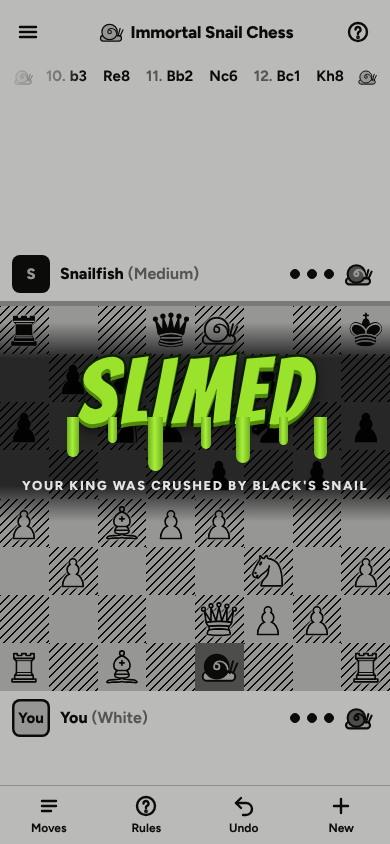
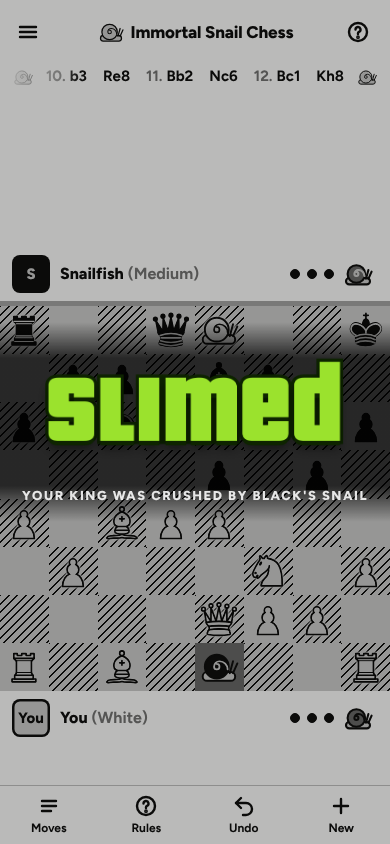
SLIMED: GTA's Pricedown lettering as a pre-rendered image, no drips
- Removed the slime drips from the SLIMED finale (app and mockup).
- The SLIMED wordmark is now public/slimed.png, rendered in Pricedown with
  scripts/render-slimed.ts. Pricedown's Typodermic Desktop License allows
  static images made with the font but not embedding or sharing the font,
  so only the PNG is committed; *.otf and fonts-local/ are gitignored.
- The overlay falls back to the Bangers lettering if the image is missing.

Claude-Session: https://claude.ai/code/session_01U8MHDgNDQCdr5CLUso6Wo8

Changed region(s): [[0.0615, 0.4005, 0.9538, 0.6161]]

diff --git a/design/mockups/round-05/end-slimed.html b/design/mockups/round-05/end-slimed.html
@@ -90,10 +90,9 @@ button{font:inherit;color:inherit;border:0;background:none}
 .slimed-world{filter:grayscale(1) contrast(1.1) brightness(.8)}
 .slimed{position:fixed;inset:0;z-index:30;display:grid;place-items:center;background:rgba(28,25,23,.3)}
 .slimed .band{position:absolute;left:0;right:0;top:50%;height:200px;transform:translateY(-50%);background:linear-gradient(180deg,transparent,rgba(0,0,0,.74) 18%,rgba(0,0,0,.74) 82%,transparent)}
-.slimed .word{position:relative;font:400 92px/.9 Bangers,Impact,sans-serif;letter-spacing:.04em;color:#9be22d;-webkit-text-stroke:5px #0e2400;paint-order:stroke fill;text-shadow:0 4px 0 #4f8a0b,0 8px 12px rgba(0,0,0,.6);text-align:center}
-.slimed .drips{position:absolute;left:8%;right:8%;top:80%;height:0}
-.slimed .drip{position:absolute;top:0;border-radius:0 0 999px 999px;background:linear-gradient(90deg,#6fb31c,#a8ee3a 45%,#6fb31c)}
-.slimed .cap{position:relative;margin-top:44px;font:800 13px Figtree;letter-spacing:.12em;text-transform:uppercase;color:rgba(255,255,255,.88);text-align:center}
+.slimed .word{position:relative;text-transform:uppercase;font:400 92px/.9 Bangers,Impact,sans-serif;letter-spacing:.04em;color:#9be22d;-webkit-text-stroke:5px #0e2400;paint-order:stroke fill;text-shadow:0 4px 0 #4f8a0b,0 8px 12px rgba(0,0,0,.6);text-align:center}
+.slimed .word-img{position:relative;display:block;width:min(330px,86vw);height:auto;margin:0 auto}
+.slimed .cap{position:relative;margin-top:22px;font:800 13px Figtree;letter-spacing:.12em;text-transform:uppercase;color:rgba(255,255,255,.88);text-align:center}
 
 .toolbar{display:grid;grid-template-columns:repeat(4,1fr);border-top:1px solid var(--line)}
 .toolbar button{height:58px;display:grid;justify-items:center;align-content:center;gap:2px;font-weight:700;font-size:12px}
@@ -408,5 +407,5 @@ button{font:inherit;color:inherit;border:0;background:none}
     <button><svg viewBox="0 0 24 24" fill="none" stroke="currentColor" stroke-width="2.4" stroke-linecap="round"><path d="M5 7h14M5 12h14M5 17h9"/></svg>Moves</button><button><svg viewBox="0 0 24 24" fill="none" stroke="currentColor" stroke-width="2.4" stroke-linecap="round" stroke-linejoin="round"><circle cx="12" cy="12" r="9"/><path d="M9.5 9.5a2.5 2.5 0 1 1 3.5 2.3c-.6.3-1 .8-1 1.5V14"/><circle cx="12" cy="17.2" r=".7" fill="currentColor"/></svg>Rules</button><button><svg viewBox="0 0 24 24" fill="none" stroke="currentColor" stroke-width="2.4" stroke-linecap="round" stroke-linejoin="round"><path d="M9 14 4 9l5-5"/><path d="M4 9h10a6 6 0 0 1 0 12h-3"/></svg>Undo</button><button><svg viewBox="0 0 24 24" fill="none" stroke="currentColor" stroke-width="2.4" stroke-linecap="round"><path d="M12 5v14M5 12h14"/></svg>New</button>
   </nav>
 </main><div class="slimed" role="alert"><div class="band"></div><div>
-  <div class="word">SLIMED<span class="drips"><span class="drip" style="left:6%;width:12px;height:40px"></span><span class="drip" style="left:20%;width:9px;height:26px"></span><span class="drip" style="left:34%;width:15px;height:54px"></span><span class="drip" style="left:52%;width:10px;height:32px"></span><span class="drip" style="left:64%;width:14px;height:46px"></span><span class="drip" style="left:79%;width:9px;height:28px"></span><span class="drip" style="left:91%;width:13px;height:42px"></span></span></div>
+  <img class="word-img" src="slimed.png" alt="Slimed">
   <div class="cap">Your king was crushed by Black's snail</div></div></div></body></html>

diff --git a/src/ui/SlimedOverlay.tsx b/src/ui/SlimedOverlay.tsx
@@ -1,28 +1,22 @@
 import '@fontsource/bangers/400.css';
-import { useEffect } from 'react';
+import { useEffect, useState } from 'react';
 import { createPortal } from 'react-dom';
 import type { Color } from '../engine/types';
 
 const NAME: Record<Color, string> = { w: 'White', b: 'Black' };
 
-/** Slime drips hanging off the lettering: [left %, width px, length px, delay ms]. */
-const DRIPS: [number, number, number, number][] = [
-  [9, 14, 50, 900],
-  [21, 10, 32, 1150],
-  [34, 18, 66, 1000],
-  [52, 12, 40, 1300],
-  [63, 16, 58, 1050],
-  [78, 11, 36, 1250],
-  [90, 15, 52, 1100],
-];
-
 /**
  * GTA-style "WASTED" finale, slime edition: the whole app drains to grey (`slimed-world` on
  * #root) while this layer, portalled to <body> so the filter doesn't touch it, adds the dark
- * band, the lettering and the drips. Click anywhere (or press Space) to skip.
+ * band and the lettering. Click anywhere (or press Space) to skip.
+ *
+ * The lettering is public/slimed.png, pre-rendered in Pricedown (GTA's font) by
+ * scripts/render-slimed.ts. Pricedown's free licence doesn't allow embedding the font in an app,
+ * only static images. Until that image exists, a Bangers fallback is shown.
  */
 export function SlimedOverlay({ victim, by, you, onSkip }: { victim: Color; by: Color; you: Color | null; onSkip: () => void }) {
   const whose = you === victim ? 'Your' : `${NAME[victim]}'s`;
+  const [imageMissing, setImageMissing] = useState(false);
   useEffect(() => {
     const root = document.getElementById('root');
     root?.classList.add('slimed-world');
@@ -32,18 +26,19 @@ export function SlimedOverlay({ victim, by, you, onSkip }: { victim: Color; by: 
     <div className="slimed-overlay" role="alert" onClick={onSkip}>
       <div className="slimed-band" />
       <div className="slimed-stack">
-        <div className="slimed-word" data-testid="slimed">
-          slimed
-          <span className="slimed-drips" aria-hidden>
-            {DRIPS.map(([left, w, h, delay]) => (
-              <span
-                key={left}
-                className="slimed-drip"
-                style={{ left: `${left}%`, width: w, height: h, animationDelay: `${delay}ms` }}
-              />
-            ))}
-          </span>
-        </div>
+        {imageMissing ? (
+          <div className="slimed-word" data-testid="slimed">
+            slimed
+          </div>
+        ) : (
+          <img
+            className="slimed-img"
+            data-testid="slimed"
+            src={`${import.meta.env.BASE_URL}slimed.png`}
+            alt="Slimed"
+            onError={() => setImageMissing(true)}
+          />
+        )}
         <p className="slimed-caption">
           {whose} king was crushed by {NAME[by]}'s snail
         </p>

diff --git a/src/index.css b/src/index.css
@@ -82,7 +82,7 @@
   .snail-body, .snail-target-imminent, .countdown-urgent, .snail-crush, .snail-banner { animation: none; }
 }
 
-/* --- SLIMED (a slimy take on GTA's "WASTED") ---------------------------- */
+/* --- SLIMED (a slimy take on GTA's "WASTED"; lettering is a pre-rendered Pricedown image) --- */
 .slimed-world {
   filter: grayscale(1) contrast(1.15) brightness(0.72);
   transition: filter 1100ms ease-out;
@@ -130,24 +130,17 @@
   transform: scale(1.35);
   animation: slimed-word-in 900ms cubic-bezier(0.16, 1, 0.3, 1) 650ms forwards;
 }
-.slimed-drips {
-  position: absolute;
-  inset-inline: 6%;
-  top: 78%;
-  height: 0;
-}
-.slimed-drip {
-  position: absolute;
-  top: 0;
-  border-radius: 0 0 999px 999px;
-  background: linear-gradient(90deg, #6fb31c, #a8ee3a 45%, #6fb31c);
-  box-shadow: inset -2px 0 0 rgba(14, 36, 0, 0.35);
-  transform-origin: top;
-  transform: scaleY(0);
-  animation: slimed-drip 1.8s cubic-bezier(0.5, 0, 0.75, 0) forwards;
+.slimed-img {
+  position: relative;
+  display: block;
+  width: clamp(15rem, 74vw, 30rem);
+  height: auto;
+  opacity: 0;
+  transform: scale(1.35);
+  animation: slimed-word-in 900ms cubic-bezier(0.16, 1, 0.3, 1) 650ms forwards;
 }
 .slimed-caption {
-  margin-top: clamp(3.5rem, 9vh, 5.5rem);
+  margin-top: clamp(0.25rem, 1.5vh, 0.75rem);
   font: 600 clamp(0.85rem, 2.4vw, 1.1rem) / 1.3 system-ui, sans-serif;
   letter-spacing: 0.08em;
   text-transform: uppercase;
@@ -165,13 +158,9 @@
 @keyframes slimed-word-in {
   to { opacity: 1; transform: scale(1); }
 }
-@keyframes slimed-drip {
-  60% { transform: scaleY(1); }
-  to { transform: scaleY(1.12); }
-}
 @media (prefers-reduced-motion: reduce) {
   .slimed-world, .slimed-world #snail-board-wrap { transition: none; }
   .slimed-world #snail-board-wrap { transform: none; }
-  .slimed-band, .slimed-word, .slimed-caption, .slimed-drip { animation: none; opacity: 1; transform: none; }
+  .slimed-band, .slimed-word, .slimed-img, .slimed-caption { animation: none; opacity: 1; transform: none; }
   .slimed-overlay { animation: none; background: rgba(28, 25, 23, 0.35); }
 }

diff --git a/scripts/render-slimed.ts b/scripts/render-slimed.ts
@@ -1,0 +1,39 @@
+/**
+ * Pre-renders the SLIMED wordmark in Pricedown (the GTA "wasted" font) to a transparent PNG.
+ *
+ *   npx tsx scripts/render-slimed.ts "path/to/Pricedown Bl.otf" [out.png]
+ *
+ * Why an image: Pricedown's free Typodermic Desktop License doesn't cover webfonts, apps or games,
+ * or sharing the font file, but it allows pre-rendered static graphics. So the game ships only
+ * this PNG. Keep the font file outside the repo (or in fonts-local/, which is gitignored).
+ */
+import { existsSync, readFileSync } from 'node:fs';
+import { chromium } from 'playwright-core';
+
+const [fontArg, outArg = 'public/slimed.png'] = process.argv.slice(2);
+if (!fontArg || !existsSync(fontArg)) {
+  console.error('Usage: npx tsx scripts/render-slimed.ts "path/to/Pricedown Bl.otf" [out.png]');
+  process.exit(1);
+}
+// Embedded as a data URL so the page can load it; it only exists in memory during rendering.
+const fontUrl = `data:font/otf;base64,${readFileSync(fontArg).toString('base64')}`;
+const html = `<!doctype html><html><head><style>
+@font-face{font-family:Pricedown;src:url("${fontUrl}")}
+html,body{margin:0;background:transparent}
+#w{display:inline-block;padding:24px 36px 34px;font:400 220px/1 Pricedown;letter-spacing:.01em;
+  color:#9be22d;-webkit-text-stroke:14px #0e2400;paint-order:stroke fill;
+  text-shadow:0 10px 0 #0e2400,0 18px 22px rgba(0,0,0,.45)}
+</style></head><body><span id="w">slimed</span></body></html>`;
+
+const browser = await chromium.launch({ executablePath: process.env.CHROMIUM_PATH ?? '/opt/pw-browsers/chromium' });
+const page = await browser.newPage({ deviceScaleFactor: 2, viewport: { width: 1600, height: 500 } });
+await page.setContent(html);
+await page.evaluate(() => document.fonts.ready);
+const loaded = await page.evaluate(() => document.fonts.check('220px Pricedown'));
+if (!loaded) {
+  console.error('The font did not load; check the file path.');
+  process.exit(1);
+}
+await page.locator('#w').screenshot({ path: outArg, omitBackground: true });
+await browser.close();
+console.log('wrote', outArg);

diff --git a/design/mockups/round-05/end-checkmate.html b/design/mockups/round-05/end-checkmate.html
@@ -90,10 +90,9 @@ button{font:inherit;color:inherit;border:0;background:none}
 .slimed-world{filter:grayscale(1) contrast(1.1) brightness(.8)}
 .slimed{position:fixed;inset:0;z-index:30;display:grid;place-items:center;background:rgba(28,25,23,.3)}
 .slimed .band{position:absolute;left:0;right:0;top:50%;height:200px;transform:translateY(-50%);background:linear-gradient(180deg,transparent,rgba(0,0,0,.74) 18%,rgba(0,0,0,.74) 82%,transparent)}
-.slimed .word{position:relative;font:400 92px/.9 Bangers,Impact,sans-serif;letter-spacing:.04em;color:#9be22d;-webkit-text-stroke:5px #0e2400;paint-order:stroke fill;text-shadow:0 4px 0 #4f8a0b,0 8px 12px rgba(0,0,0,.6);text-align:center}
-.slimed .drips{position:absolute;left:8%;right:8%;top:80%;height:0}
-.slimed .drip{position:absolute;top:0;border-radius:0 0 999px 999px;background:linear-gradient(90deg,#6fb31c,#a8ee3a 45%,#6fb31c)}
-.slimed .cap{position:relative;margin-top:44px;font:800 13px Figtree;letter-spacing:.12em;text-transform:uppercase;color:rgba(255,255,255,.88);text-align:center}
+.slimed .word{position:relative;text-transform:uppercase;font:400 92px/.9 Bangers,Impact,sans-serif;letter-spacing:.04em;color:#9be22d;-webkit-text-stroke:5px #0e2400;paint-order:stroke fill;text-shadow:0 4px 0 #4f8a0b,0 8px 12px rgba(0,0,0,.6);text-align:center}
+.slimed .word-img{position:relative;display:block;width:min(330px,86vw);height:auto;margin:0 auto}
+.slimed .cap{position:relative;margin-top:22px;font:800 13px Figtree;letter-spacing:.12em;text-transform:uppercase;color:rgba(255,255,255,.88);text-align:center}
 
 .toolbar{display:grid;grid-template-columns:repeat(4,1fr);border-top:1px solid var(--line)}
 .toolbar button{height:58px;display:grid;justify-items:center;align-content:center;gap:2px;font-weight:700;font-size:12px}

diff --git a/design/mockups/round-05/end-slimed-result.html b/design/mockups/round-05/end-slimed-result.html
@@ -90,10 +90,9 @@ button{font:inherit;color:inherit;border:0;background:none}
 .slimed-world{filter:grayscale(1) contrast(1.1) brightness(.8)}
 .slimed{position:fixed;inset:0;z-index:30;display:grid;place-items:center;background:rgba(28,25,23,.3)}
 .slimed .band{position:absolute;left:0;right:0;top:50%;height:200px;transform:translateY(-50%);background:linear-gradient(180deg,transparent,rgba(0,0,0,.74) 18%,rgba(0,0,0,.74) 82%,transparent)}
-.slimed .word{position:relative;font:400 92px/.9 Bangers,Impact,sans-serif;letter-spacing:.04em;color:#9be22d;-webkit-text-stroke:5px #0e2400;paint-order:stroke fill;text-shadow:0 4px 0 #4f8a0b,0 8px 12px rgba(0,0,0,.6);text-align:center}
-.slimed .drips{position:absolute;left:8%;right:8%;top:80%;height:0}
-.slimed .drip{position:absolute;top:0;border-radius:0 0 999px 999px;background:linear-gradient(90deg,#6fb31c,#a8ee3a 45%,#6fb31c)}
-.slimed .cap{position:relative;margin-top:44px;font:800 13px Figtree;letter-spacing:.12em;text-transform:uppercase;color:rgba(255,255,255,.88);text-align:center}
+.slimed .word{position:relative;text-transform:uppercase;font:400 92px/.9 Bangers,Impact,sans-serif;letter-spacing:.04em;color:#9be22d;-webkit-text-stroke:5px #0e2400;paint-order:stroke fill;text-shadow:0 4px 0 #4f8a0b,0 8px 12px rgba(0,0,0,.6);text-align:center}
+.slimed .word-img{position:relative;display:block;width:min(330px,86vw);height:auto;margin:0 auto}
+.slimed .cap{position:relative;margin-top:22px;font:800 13px Figtree;letter-spacing:.12em;text-transform:uppercase;color:rgba(255,255,255,.88);text-align:center}
 
 .toolbar{display:grid;grid-template-columns:repeat(4,1fr);border-top:1px solid var(--line)}
 .toolbar button{height:58px;display:grid;justify-items:center;align-content:center;gap:2px;font-weight:700;font-size:12px}

diff --git a/design/mockups/round-05/idle.html b/design/mockups/round-05/idle.html
@@ -90,10 +90,9 @@ button{font:inherit;color:inherit;border:0;background:none}
 .slimed-world{filter:grayscale(1) contrast(1.1) brightness(.8)}
 .slimed{position:fixed;inset:0;z-index:30;display:grid;place-items:center;background:rgba(28,25,23,.3)}
 .slimed .band{position:absolute;left:0;right:0;top:50%;height:200px;transform:translateY(-50%);background:linear-gradient(180deg,transparent,rgba(0,0,0,.74) 18%,rgba(0,0,0,.74) 82%,transparent)}
-.slimed .word{position:relative;font:400 92px/.9 Bangers,Impact,sans-serif;letter-spacing:.04em;color:#9be22d;-webkit-text-stroke:5px #0e2400;paint-order:stroke fill;text-shadow:0 4px 0 #4f8a0b,0 8px 12px rgba(0,0,0,.6);text-align:center}
-.slimed .drips{position:absolute;left:8%;right:8%;top:80%;height:0}
-.slimed .drip{position:absolute;top:0;border-radius:0 0 999px 999px;background:linear-gradient(90deg,#6fb31c,#a8ee3a 45%,#6fb31c)}
-.slimed .cap{position:relative;margin-top:44px;font:800 13px Figtree;letter-spacing:.12em;text-transform:uppercase;color:rgba(255,255,255,.88);text-align:center}
+.slimed .word{position:relative;text-transform:uppercase;font:400 92px/.9 Bangers,Impact,sans-serif;letter-spacing:.04em;color:#9be22d;-webkit-text-stroke:5px #0e2400;paint-order:stroke fill;text-shadow:0 4px 0 #4f8a0b,0 8px 12px rgba(0,0,0,.6);text-align:center}
+.slimed .word-img{position:relative;display:block;width:min(330px,86vw);height:auto;margin:0 auto}
+.slimed .cap{position:relative;margin-top:22px;font:800 13px Figtree;letter-spacing:.12em;text-transform:uppercase;color:rgba(255,255,255,.88);text-align:center}
 
 .toolbar{display:grid;grid-template-columns:repeat(4,1fr);border-top:1px solid var(--line)}
 .toolbar button{height:58px;display:grid;justify-items:center;align-content:center;gap:2px;font-weight:700;font-size:12px}

diff --git a/design/mockups/round-05/rules.html b/design/mockups/round-05/rules.html
@@ -90,10 +90,9 @@ button{font:inherit;color:inherit;border:0;background:none}
 .slimed-world{filter:grayscale(1) contrast(1.1) brightness(.8)}
 .slimed{position:fixed;inset:0;z-index:30;display:grid;place-items:center;background:rgba(28,25,23,.3)}
 .slimed .band{position:absolute;left:0;right:0;top:50%;height:200px;transform:translateY(-50%);background:linear-gradient(180deg,transparent,rgba(0,0,0,.74) 18%,rgba(0,0,0,.74) 82%,transparent)}
-.slimed .word{position:relative;font:400 92px/.9 Bangers,Impact,sans-serif;letter-spacing:.04em;color:#9be22d;-webkit-text-stroke:5px #0e2400;paint-order:stroke fill;text-shadow:0 4px 0 #4f8a0b,0 8px 12px rgba(0,0,0,.6);text-align:center}
-.slimed .drips{position:absolute;left:8%;right:8%;top:80%;height:0}
-.slimed .drip{position:absolute;top:0;border-radius:0 0 999px 999px;background:linear-gradient(90deg,#6fb31c,#a8ee3a 45%,#6fb31c)}
-.slimed .cap{position:relative;margin-top:44px;font:800 13px Figtree;letter-spacing:.12em;text-transform:uppercase;color:rgba(255,255,255,.88);text-align:center}
+.slimed .word{position:relative;text-transform:uppercase;font:400 92px/.9 Bangers,Impact,sans-serif;letter-spacing:.04em;color:#9be22d;-webkit-text-stroke:5px #0e2400;paint-order:stroke fill;text-shadow:0 4px 0 #4f8a0b,0 8px 12px rgba(0,0,0,.6);text-align:center}
+.slimed .word-img{position:relative;display:block;width:min(330px,86vw);height:auto;margin:0 auto}
+.slimed .cap{position:relative;margin-top:22px;font:800 13px Figtree;letter-spacing:.12em;text-transform:uppercase;color:rgba(255,255,255,.88);text-align:center}
 
 .toolbar{display:grid;grid-template-columns:repeat(4,1fr);border-top:1px solid var(--line)}
 .toolbar button{height:58px;display:grid;justify-items:center;align-content:center;gap:2px;font-weight:700;font-size:12px}

diff --git a/design/mockups/round-05/selected.html b/design/mockups/round-05/selected.html
@@ -90,10 +90,9 @@ button{font:inherit;color:inherit;border:0;background:none}
 .slimed-world{filter:grayscale(1) contrast(1.1) brightness(.8)}
 .slimed{position:fixed;inset:0;z-index:30;display:grid;place-items:center;background:rgba(28,25,23,.3)}
 .slimed .band{position:absolute;left:0;right:0;top:50%;height:200px;transform:translateY(-50%);background:linear-gradient(180deg,transparent,rgba(0,0,0,.74) 18%,rgba(0,0,0,.74) 82%,transparent)}
-.slimed .word{position:relative;font:400 92px/.9 Bangers,Impact,sans-serif;letter-spacing:.04em;color:#9be22d;-webkit-text-stroke:5px #0e2400;paint-order:stroke fill;text-shadow:0 4px 0 #4f8a0b,0 8px 12px rgba(0,0,0,.6);text-align:center}
-.slimed .drips{position:absolute;left:8%;right:8%;top:80%;height:0}
-.slimed .drip{position:absolute;top:0;border-radius:0 0 999px 999px;background:linear-gradient(90deg,#6fb31c,#a8ee3a 45%,#6fb31c)}
-.slimed .cap{position:relative;margin-top:44px;font:800 13px Figtree;letter-spacing:.12em;text-transform:uppercase;color:rgba(255,255,255,.88);text-align:center}
+.slimed .word{position:relative;text-transform:uppercase;font:400 92px/.9 Bangers,Impact,sans-serif;letter-spacing:.04em;color:#9be22d;-webkit-text-stroke:5px #0e2400;paint-order:stroke fill;text-shadow:0 4px 0 #4f8a0b,0 8px 12px rgba(0,0,0,.6);text-align:center}
+.slimed .word-img{position:relative;display:block;width:min(330px,86vw);height:auto;margin:0 auto}
+.slimed .cap{position:relative;margin-top:22px;font:800 13px Figtree;letter-spacing:.12em;text-transform:uppercase;color:rgba(255,255,255,.88);text-align:center}
 
 .toolbar{display:grid;grid-template-columns:repeat(4,1fr);border-top:1px solid var(--line)}
 .toolbar button{height:58px;display:grid;justify-items:center;align-content:center;gap:2px;font-weight:700;font-size:12px}

diff --git a/design/mockups/round-05/snails.html b/design/mockups/round-05/snails.html
@@ -90,10 +90,9 @@ button{font:inherit;color:inherit;border:0;background:none}
 .slimed-world{filter:grayscale(1) contrast(1.1) brightness(.8)}
 .slimed{position:fixed;inset:0;z-index:30;display:grid;place-items:center;background:rgba(28,25,23,.3)}
 .slimed .band{position:absolute;left:0;right:0;top:50%;height:200px;transform:translateY(-50%);background:linear-gradient(180deg,transparent,rgba(0,0,0,.74) 18%,rgba(0,0,0,.74) 82%,transparent)}
-.slimed .word{position:relative;font:400 92px/.9 Bangers,Impact,sans-serif;letter-spacing:.04em;color:#9be22d;-webkit-text-stroke:5px #0e2400;paint-order:stroke fill;text-shadow:0 4px 0 #4f8a0b,0 8px 12px rgba(0,0,0,.6);text-align:center}
-.slimed .drips{position:absolute;left:8%;right:8%;top:80%;height:0}
-.slimed .drip{position:absolute;top:0;border-radius:0 0 999px 999px;background:linear-gradient(90deg,#6fb31c,#a8ee3a 45%,#6fb31c)}
-.slimed .cap{position:relative;margin-top:44px;font:800 13px Figtree;letter-spacing:.12em;text-transform:uppercase;color:rgba(255,255,255,.88);text-align:center}
+.slimed .word{position:relative;text-transform:uppercase;font:400 92px/.9 Bangers,Impact,sans-serif;letter-spacing:.04em;color:#9be22d;-webkit-text-stroke:5px #0e2400;paint-order:stroke fill;text-shadow:0 4px 0 #4f8a0b,0 8px 12px rgba(0,0,0,.6);text-align:center}
+.slimed .word-img{position:relative;display:block;width:min(330px,86vw);height:auto;margin:0 auto}
+.slimed .cap{position:relative;margin-top:22px;font:800 13px Figtree;letter-spacing:.12em;text-transform:uppercase;color:rgba(255,255,255,.88);text-align:center}
 
 .toolbar{display:grid;grid-template-columns:repeat(4,1fr);border-top:1px solid var(--line)}
 .toolbar button{height:58px;display:grid;justify-items:center;align-content:center;gap:2px;font-weight:700;font-size:12px}

diff --git a/design/mockups/round-05/src/build.ts b/design/mockups/round-05/src/build.ts
@@ -1,5 +1,5 @@
 // npx tsx build.ts — renders every state; positions, legal squares and endings come from the real engine.
-import { writeFileSync } from 'node:fs';
+import { copyFileSync, existsSync, writeFileSync } from 'node:fs';
 import { dirname, join } from 'node:path';
 import { fileURLToPath } from 'node:url';
 import { CHECKMATE, SLIMED_MOMENT, SLIMED_RESULT, SUMMARY } from './endings';
@@ -7,6 +7,12 @@ import { render } from './layout.mjs';
 import { legalFrom } from './legal';
 
 const out = join(dirname(fileURLToPath(import.meta.url)), '..');
+// Use the real Pricedown SLIMED image once scripts/render-slimed.ts has produced it.
+const png = join(out, '../../../public/slimed.png');
+if (existsSync(png)) {
+  copyFileSync(png, join(out, 'slimed.png'));
+  (SLIMED_MOMENT as { slimed: { image?: string } }).slimed.image = 'slimed.png';
+}
 const pages: Record<string, string> = {
   idle: render({ state: 'idle' }),
   selected: render({ state: 'selected', legal: legalFrom('c4') }),

diff --git a/README.md b/README.md
@@ -95,7 +95,11 @@ A move that triggers the snails plays back as separate beats:
 5. The board settles.
 
 If a snail crushes a king, the finale is a GTA "WASTED"-style **SLIMED** screen
-(`src/ui/SlimedOverlay.tsx`, lettering in the OFL-licensed Bangers font).
+(`src/ui/SlimedOverlay.tsx`). The lettering is `public/slimed.png`, pre-rendered in Pricedown (GTA's
+font) with `npx tsx scripts/render-slimed.ts "path/to/Pricedown Bl.otf"`. Pricedown's free Typodermic
+Desktop License doesn't allow embedding the font in an app or sharing the file, only static images,
+so only the PNG is committed (`*.otf` and `fonts-local/` are gitignored). Until the image exists the
+screen falls back to Bangers.
 
 The bot can think during playback but only moves once the board has settled. Click the board or
 press Space to skip. See `src/ui/usePlayback.ts`.
